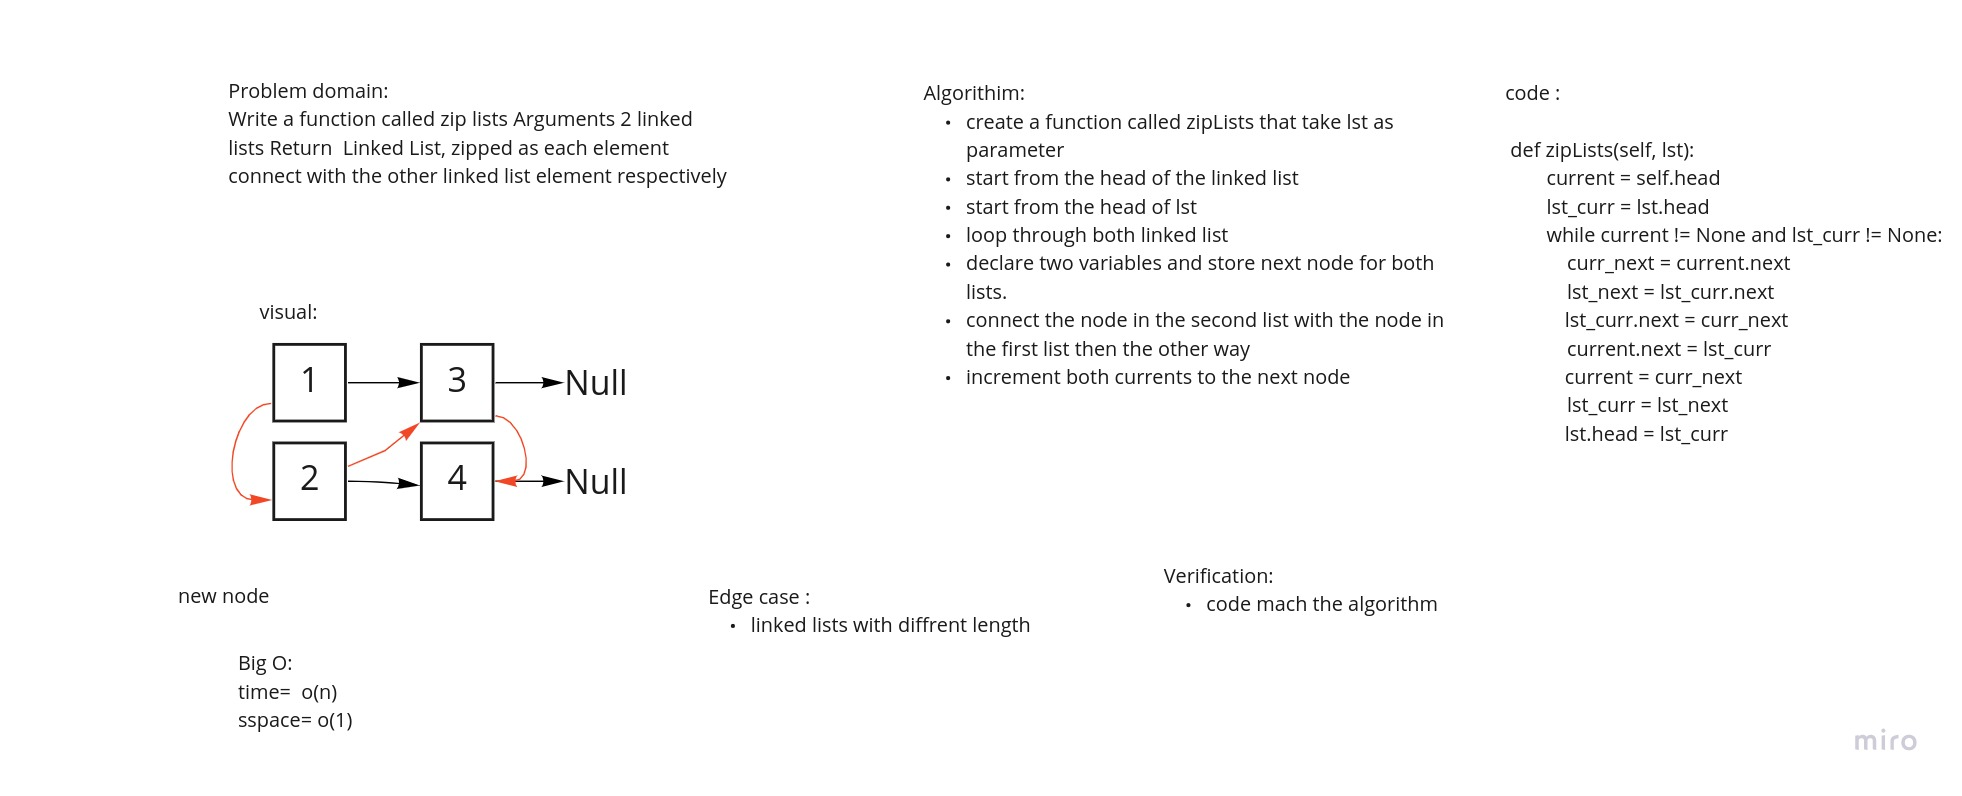
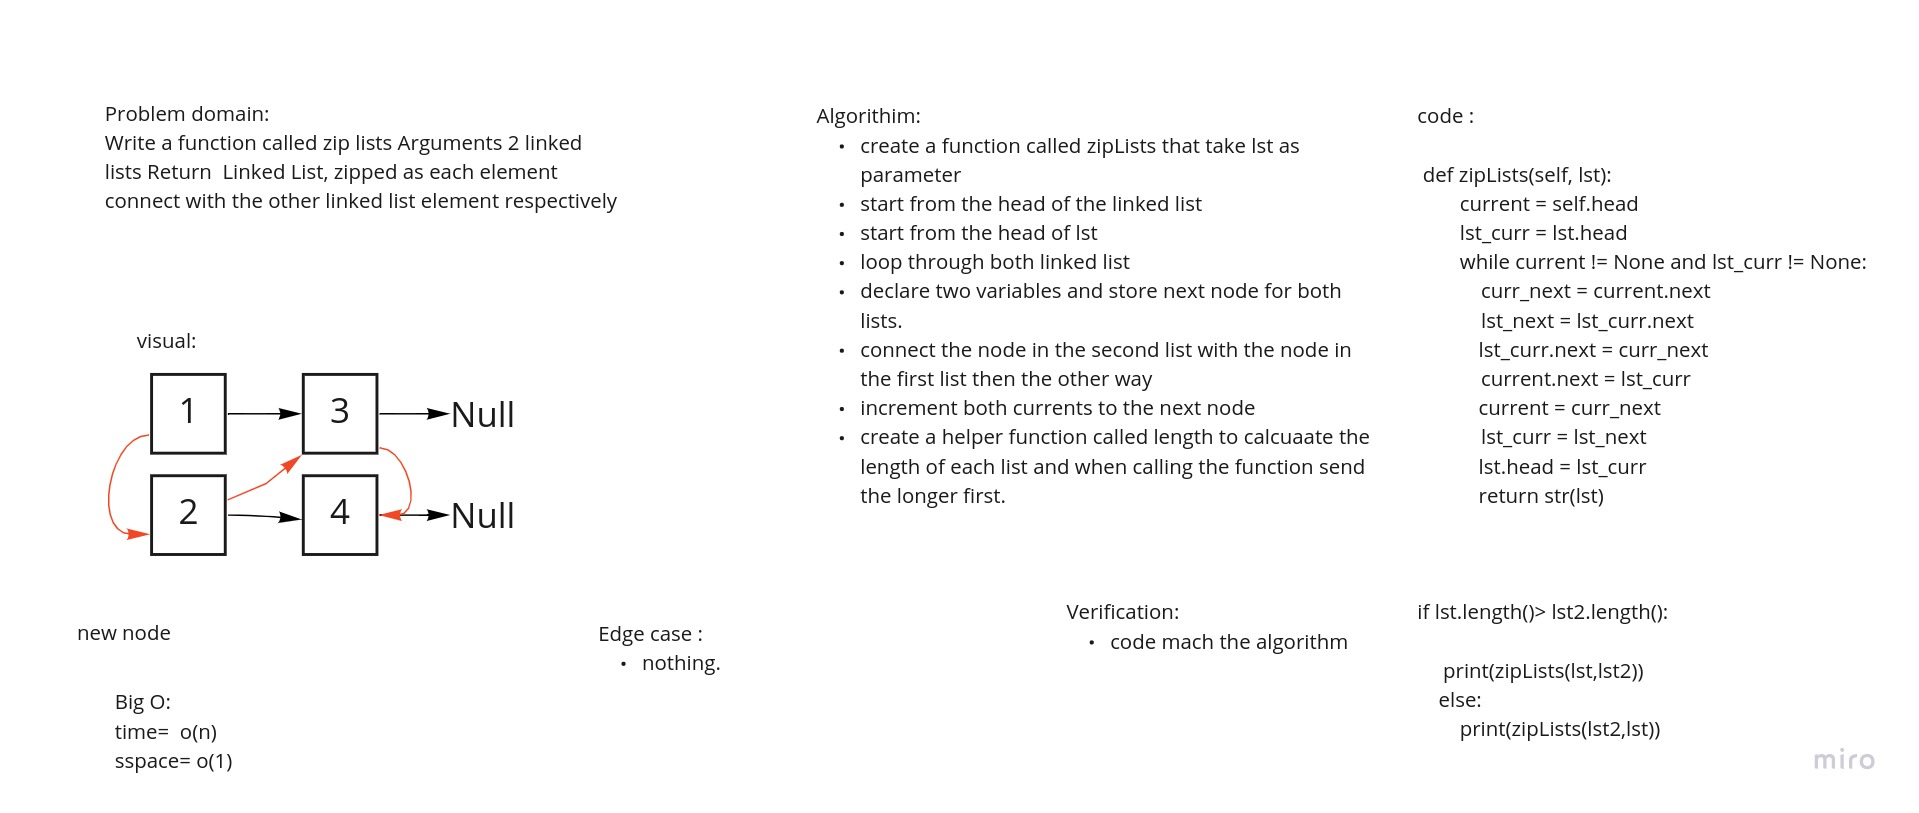
fix challenge

diff --git a/python/linkedlist/linkedlist/linkedlist.py b/python/linkedlist/linkedlist/linkedlist.py
@@ -77,20 +77,15 @@ class LinkedList:
             current = current.next
         return int(current.value)
 
-    def zipLists(self, lst):
-        current = self.head
-        lst_curr = lst.head
-        while current != None and lst_curr != None:
-            curr_next = current.next
-            lst_next = lst_curr.next
-            lst_curr.next = curr_next
-            current.next = lst_curr
-            current = curr_next
-            lst_curr = lst_next
-            lst.head = lst_curr
 
+    def length(self):
+        counter=0
+        current=self.head
+        while current:
 
-
+               counter+=1
+               current=current.next
+        return counter
 
     def __str__(self):
         content=''
@@ -102,15 +97,40 @@ class LinkedList:
         return content
 
 
+# def zipLists(lst, lst2):
+
+#     current = lst.head
+#     lst_curr = lst2.head
+
+#     while current != None and lst_curr != None:
+#         curr_next = current.next
+#         lst_next = lst_curr.next
+#         lst_curr.next = curr_next
+#         current.next = lst_curr
+#         current = curr_next
+#         lst_curr = lst_next
+#         lst2.head = lst_curr
+#     return str(lst)
 
 
-if __name__=='__main__':
-    ruba=LinkedList()
-    ruba.insert('1')
-    ruba.insert_after('1','3')
-    k=LinkedList()
-    k.insert('2')
-    k.insert_after('2','4')
-    k.insert_after('4','5')
-    ruba.zipLists(k)
-    print(ruba)
+
+
+
+
+
+
+# if __name__=='__main__':
+#     ruba=LinkedList()
+#     ruba.insert('1')
+#     ruba.append('3')
+#     k=LinkedList()
+#     k.insert('2')
+#     k.append('4')
+#     k.append('5')
+
+#     if ruba.length()> k.length():
+
+#         print(zipLists(ruba,k))
+#     else:
+#         print(zipLists(k,ruba))
+

diff --git a/python/linkedlist/linkedlist/zip_lists.py b/python/linkedlist/linkedlist/zip_lists.py
@@ -1,0 +1,32 @@
+from linkedlist import Node, LinkedList
+
+def zipLists(lst, lst2):
+
+    current = lst.head
+    lst_curr = lst2.head
+
+    while current != None and lst_curr != None:
+        curr_next = current.next
+        lst_next = lst_curr.next
+        lst_curr.next = curr_next
+        current.next = lst_curr
+        current = curr_next
+        lst_curr = lst_next
+        lst2.head = lst_curr
+    return str(lst)
+
+
+if __name__=='__main__':
+    ruba=LinkedList()
+    ruba.insert('1')
+    ruba.append('3')
+    k=LinkedList()
+    k.insert('2')
+    k.append('4')
+    k.append('5')
+
+    if ruba.length()> k.length():
+
+        print(zipLists(ruba,k))
+    else:
+        print(zipLists(k,ruba))

diff --git a/python/linkedlist/README.md b/python/linkedlist/README.md
@@ -44,3 +44,12 @@ Linked List
   * Return the node’s value that is k places from the tail of the linked list.
   * You have access to the Node class and all the properties on the Linked List class as well as the methods created in previous challenges.
 
+
+
+* zipLists
+  * Write a function called zip lists
+  * Arguments: 2 linked lists
+  * Return: Linked List, zipped with each others
+  * Zip the two linked lists together into one so that the nodes alternate between the two lists and return a          reference to the head of the zipped list.
+  * Try and keep additional space down to O(1)
+  * You have access to the Node class and all the properties on the Linked List class as well as the methods created in previous challenges.

diff --git a/python/README.md b/python/README.md
@@ -10,7 +10,7 @@
 4|[Challenge 4 ](linkedlist/README.md)
 5|[Challenge 5 ](linkedlist/linkedlist/linkedlist.py) / [Challenge 5 Test](linkedlist/tests/test_linked_list.py)
 6| [Challenge 7 ](linkedlist/linkedlist/linkedlist.py) / [Challenge 7 Test](linkedlist/tests/kth_test.py) / [Whiteboard](img/challenge7.jpg)
-7|[Challenge 8 ](linkedlist/linkedlist/linkedlist.py) / [Challenge 8 Test](linkedlist/tests/test_ziplist.py) / [Whiteboard](img/challenge8.jpg)
+7|[Challenge 8 ](linkedlist/linkedlist/zip_lists.py) / [Challenge 8 Test](linkedlist/tests/test_ziplist.py) / [Whiteboard](img/challenge8.jpg)
 8|
 9|
 10|
